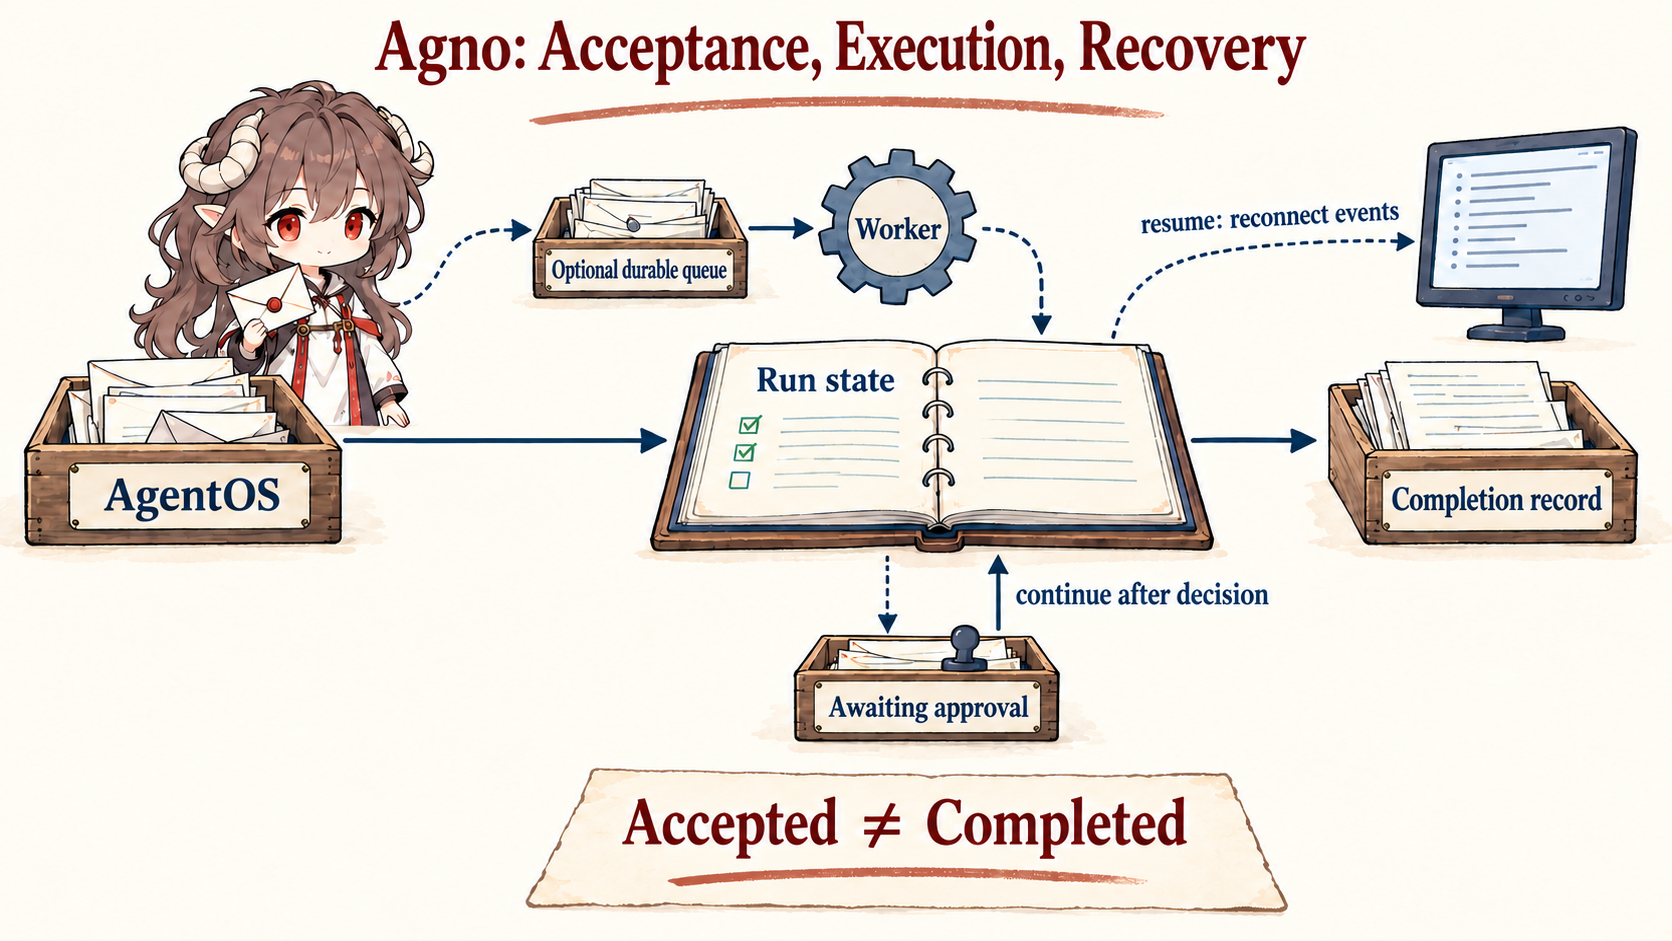
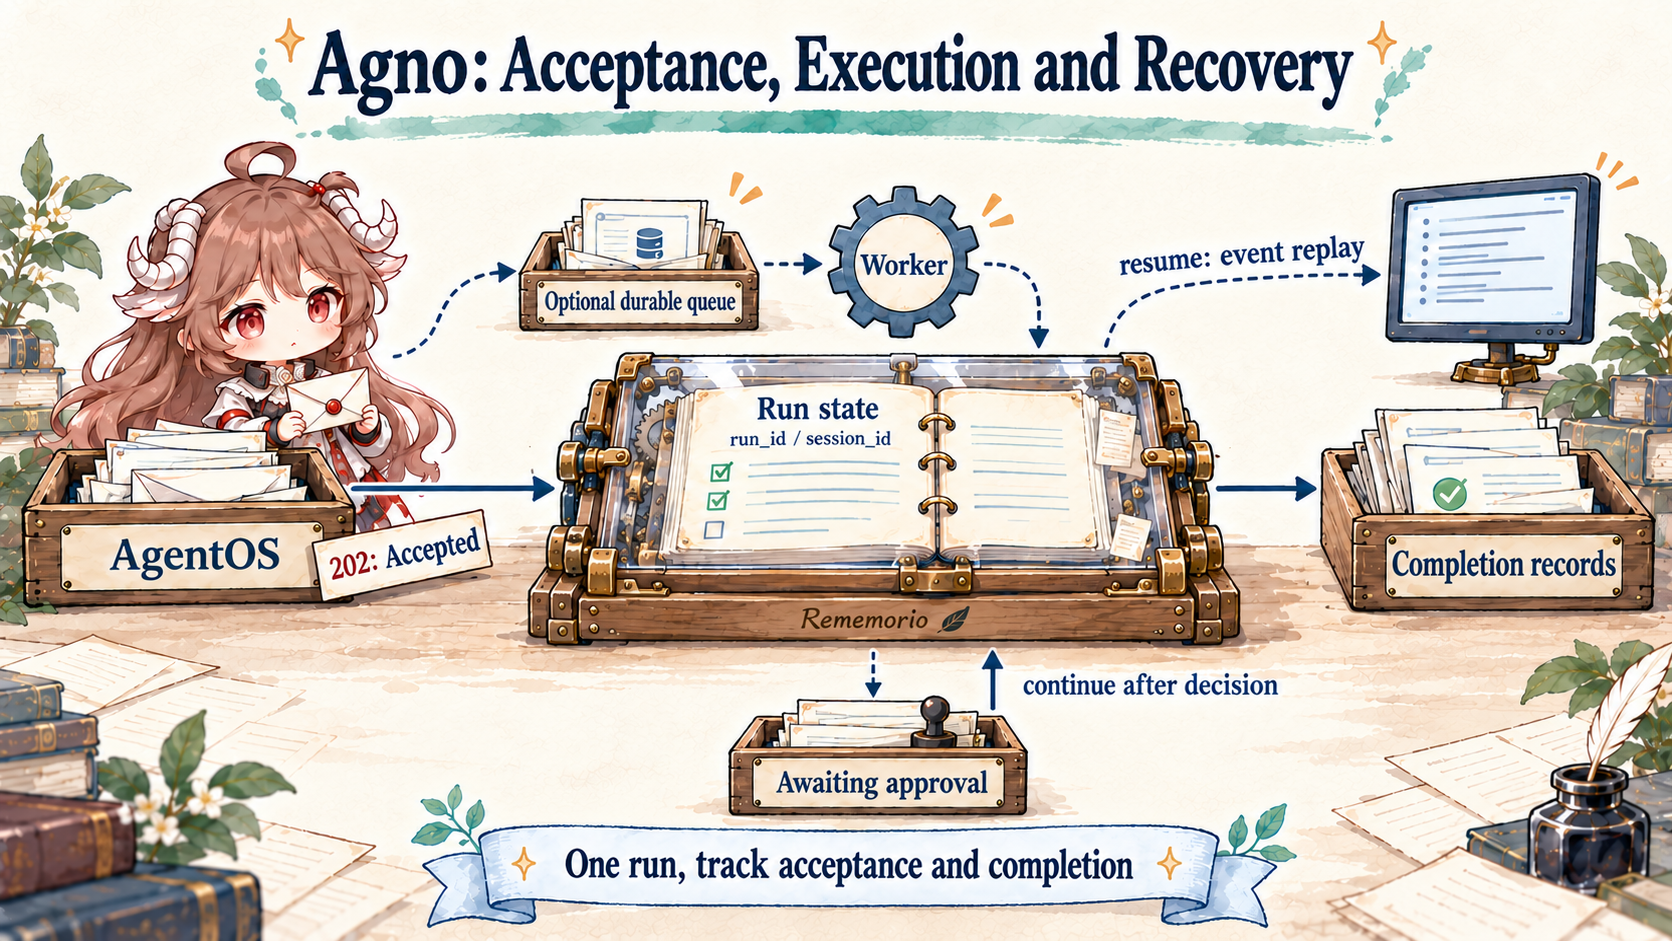
Redraw Agno lifecycle figures in the shared workshop style

diff --git a/agent-framework/en/agno-platform/index.html b/agent-framework/en/agno-platform/index.html
@@ -15,7 +15,7 @@
       content="Agno is less about another agent loop and more about one AgentOS control plane for agents, teams, workflows, APIs, storage, approval, tracing, scheduling, and RBAC."
     />
     <meta property="og:type" content="article" />
-    <meta property="og:image" content="../assets/agno-platform-overview.png" />
+    <meta property="og:image" content="../assets/agno-platform-overview.png?v=20261023" />
     <link rel="canonical" href="https://rememorio.github.io/blog/agent-framework/en/agno-platform/" />
     <link rel="alternate" hreflang="zh-CN" href="https://rememorio.github.io/blog/agent-framework/zh/agno-platform/" />
     <link rel="alternate" hreflang="en" href="https://rememorio.github.io/blog/agent-framework/en/agno-platform/" />
@@ -122,7 +122,7 @@
             </div>
             <figure class="hero-image">
               <img
-                src="../assets/agno-platform-overview.png"
+                src="../assets/agno-platform-overview.png?v=20261023"
                 alt="Agno optional durable queue, run state, continue after approval and resume for event reconnection; accepted does not mean completed"
               />
               <figcaption>This figure focuses on the run lifecycle: queuing is optional, computation continues after an approval decision, and resume only reconnects events. The run record carries the final result.</figcaption>

diff --git a/agent-framework/zh/agno-platform/index.html b/agent-framework/zh/agno-platform/index.html
@@ -15,7 +15,7 @@
       content="Agno 的重点不是再造一个 Agent Loop，而是让 AgentOS 统一接入 Agents、Teams、Workflows、API、Storage、Approval、Tracing、Scheduler 和 RBAC。"
     />
     <meta property="og:type" content="article" />
-    <meta property="og:image" content="../assets/agno-platform-overview.png" />
+    <meta property="og:image" content="../assets/agno-platform-overview.png?v=20261023" />
     <link rel="canonical" href="https://rememorio.github.io/blog/agent-framework/zh/agno-platform/" />
     <link rel="alternate" hreflang="zh-CN" href="https://rememorio.github.io/blog/agent-framework/zh/agno-platform/" />
     <link rel="alternate" hreflang="en" href="https://rememorio.github.io/blog/agent-framework/en/agno-platform/" />
@@ -121,7 +121,7 @@
             </div>
             <figure class="hero-image">
               <img
-                src="../assets/agno-platform-overview.png"
+                src="../assets/agno-platform-overview.png?v=20261023"
                 alt="Agno 的可选持久队列、运行状态、审批后 continue 与事件流 resume；已受理不等于已完成"
               />
               <figcaption>图中聚焦运行生命周期：队列是可选路径，审批决定后才继续计算；resume 只重连事件，最终结果以 run 记录为准。</figcaption>

diff --git a/en/index.html b/en/index.html
@@ -510,7 +510,7 @@
         </a>
           <a class="post-card" href="../agent-framework/en/agno-platform/">
           <span class="post-thumb" aria-hidden="true">
-            <img loading="lazy" decoding="async" width="1672" height="941" src="../agent-framework/en/assets/agno-platform-overview.png" alt="Agno optional durable queue, run state, continue after approval and resume for event reconnection; accepted does not mean completed" />
+            <img loading="lazy" decoding="async" width="1672" height="941" src="../agent-framework/en/assets/agno-platform-overview.png?v=20261023" alt="Agno optional durable queue, run state, continue after approval and resume for event reconnection; accepted does not mean completed" />
           </span>
           <span>
             <span class="tag">Agent Framework Source Notes · Part 9</span>

diff --git a/zh/index.html b/zh/index.html
@@ -509,7 +509,7 @@
         </a>
           <a class="post-card" href="../agent-framework/zh/agno-platform/">
           <span class="post-thumb" aria-hidden="true">
-            <img loading="lazy" decoding="async" width="1672" height="941" src="../agent-framework/zh/assets/agno-platform-overview.png" alt="Agno 的可选持久队列、运行状态、审批后 continue 与事件流 resume；已受理不等于已完成" />
+            <img loading="lazy" decoding="async" width="1672" height="941" src="../agent-framework/zh/assets/agno-platform-overview.png?v=20261023" alt="Agno 的可选持久队列、运行状态、审批后 continue 与事件流 resume；已受理不等于已完成" />
           </span>
           <span>
             <span class="tag">Agent 框架源码阅读 · 第九篇</span>

diff --git a/agent-framework/en/index.html b/agent-framework/en/index.html
@@ -355,7 +355,7 @@
         </a>
         <a class="post-card" href="./agno-platform/">
           <span class="post-thumb" aria-hidden="true">
-            <img src="assets/agno-platform-overview.png" alt="Agno optional durable queue, run state, continue after approval and resume for event reconnection; accepted does not mean completed" />
+            <img src="assets/agno-platform-overview.png?v=20261023" alt="Agno optional durable queue, run state, continue after approval and resume for event reconnection; accepted does not mean completed" />
           </span>
           <span>
             <span class="tag">Source Notes · Part 9</span>

diff --git a/agent-framework/zh/index.html b/agent-framework/zh/index.html
@@ -355,7 +355,7 @@
         </a>
         <a class="post-card" href="./agno-platform/">
           <span class="post-thumb" aria-hidden="true">
-            <img src="assets/agno-platform-overview.png" alt="Agno 的可选持久队列、运行状态、审批后 continue 与事件流 resume；已受理不等于已完成" />
+            <img src="assets/agno-platform-overview.png?v=20261023" alt="Agno 的可选持久队列、运行状态、审批后 continue 与事件流 resume；已受理不等于已完成" />
           </span>
           <span>
             <span class="tag">源码阅读 · 第九篇</span>
